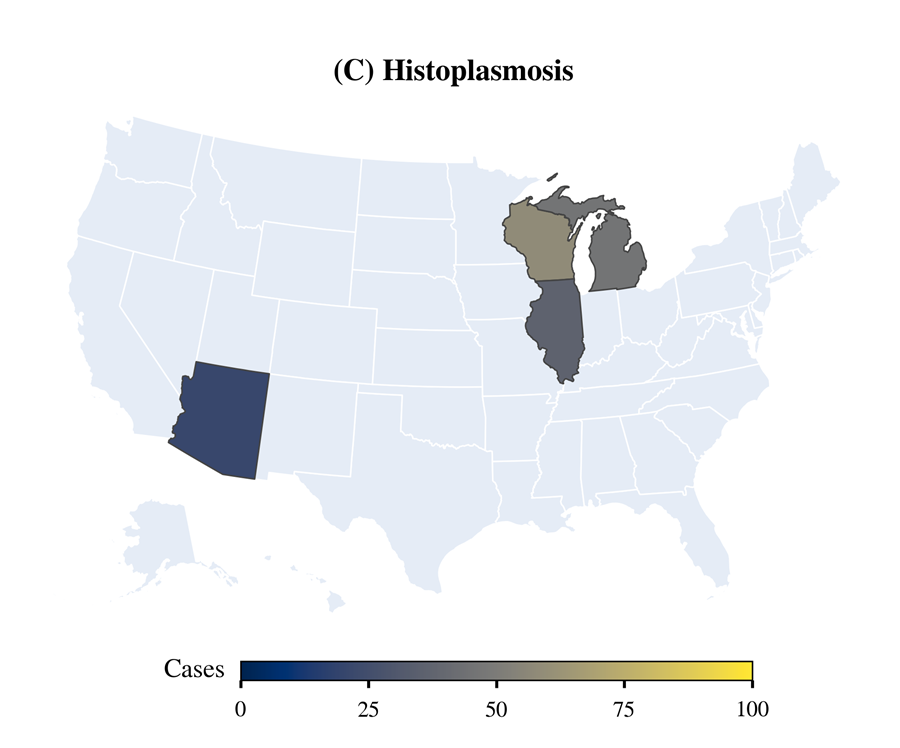
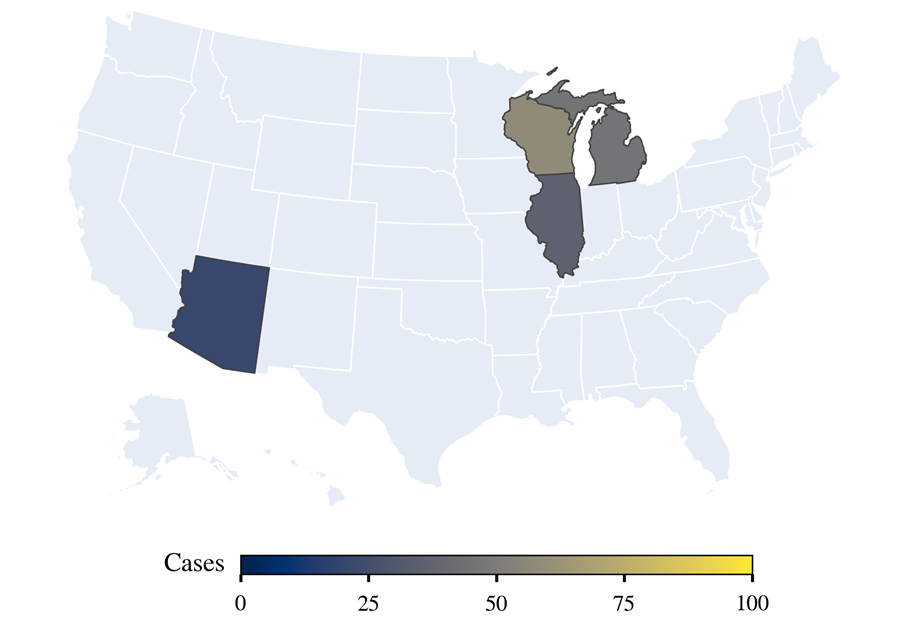
Updating Profile

Changed region(s): [[0.0622, 0.0, 0.9333, 0.81], [0.1556, 0.8411, 0.8711, 0.9657], [0.3422, 0.7477, 0.4044, 0.81]]

diff --git a/projects.html b/projects.html
@@ -144,7 +144,7 @@
             </ol>
             <div class="viz-bundle__defs">
               <div class="viz-bundle__card is-active">
-                <p class="viz-bundle__def">A - Assessment, Prevention, and Management of Pain.</p>
+                <p class="viz-bundle__def">A: Assessment, Prevention, and Management of Pain</p>
                 <ul class="viz-bundle__map">
                   <li class="viz-bundle__head"><span>Clinical Concept</span><span>Standardized Vocabulary: Code</span><span>CDM Table</span></li>
                   <li><span>CPOT: Total Score</span><span>OMOP Extension: OMOP5214819</span><span>Measurement</span></li>
@@ -152,7 +152,7 @@
                 </ul>
               </div>
               <div class="viz-bundle__card">
-                <p class="viz-bundle__def">B: SAT - Spontaneous Awakening Trials.<br>B: SBT - Spontaneous Breathing Trials.</p>
+                <p class="viz-bundle__def">B: SAT: Spontaneous Awakening Trials &amp; SBT: Spontaneous Breathing Trials</p>
                 <ul class="viz-bundle__map">
                   <li class="viz-bundle__head"><span>Clinical Concept</span><span>Standardized Vocabulary: Code</span><span>CDM Table</span></li>
                   <li><span>Sedative</span><span>SNOMED: 372614000</span><span>Drug</span></li>
@@ -160,7 +160,7 @@
                 </ul>
               </div>
               <div class="viz-bundle__card">
-                <p class="viz-bundle__def">C - Choice of Analgesia and Sedation levels</p>
+                <p class="viz-bundle__def">C: Choice of Analgesia and Sedation levels</p>
                 <ul class="viz-bundle__map">
                   <li class="viz-bundle__head"><span>Clinical Concept</span><span>Standardized Vocabulary: Code</span><span>CDM Table</span></li>
                   <li><span>RASS Score</span><span>SNOMED: 457441000124102</span><span>Measurement</span></li>
@@ -168,7 +168,7 @@
                 </ul>
               </div>
               <div class="viz-bundle__card">
-                <p class="viz-bundle__def">D - Delirium: Assess, Prevent, and Manage</p>
+                <p class="viz-bundle__def">D: Delirium: Assess, Prevent, and Manage</p>
                 <ul class="viz-bundle__map">
                   <li class="viz-bundle__head"><span>Clinical Concept</span><span>Standardized Vocabulary: Code</span><span>CDM Table</span></li>
                   <li><span>CAM-ICU Inattention</span><span>LOINC: 106402-1</span><span>Observation</span></li>
@@ -176,7 +176,7 @@
                 </ul>
               </div>
               <div class="viz-bundle__card">
-                <p class="viz-bundle__def">E - Early Mobility and Exercise</p>
+                <p class="viz-bundle__def">E: Early Mobility and Exercise</p>
                 <ul class="viz-bundle__map">
                   <li class="viz-bundle__head"><span>Clinical Concept</span><span>Standardized Vocabulary: Code</span><span>CDM Table</span></li>
                   <li><span>Range of Motion (ROM) Status</span><span>SNOMED: 228528009</span><span>Procedure</span></li>
@@ -184,7 +184,7 @@
                 </ul>
               </div>
               <div class="viz-bundle__card">
-                <p class="viz-bundle__def">F - Family Engagement and Empowerment</p>
+                <p class="viz-bundle__def">F: Family Engagement and Empowerment</p>
                 <ul class="viz-bundle__map">
                   <li class="viz-bundle__head"><span>Clinical Concept</span><span>Standardized Vocabulary: Code</span><span>CDM Table</span></li>
                   <li><span>Family Communication</span><span>SNOMED: 14641000202103</span><span>Observation</span></li>
@@ -202,13 +202,18 @@
           <hr>
           <p>Fungal infections, such as coccidioidomycosis, aspergillosis, and histoplasmosis, represent a growing public health concern in the United States. We constructed three cohorts, coccidioidomycosis (n = 1,171), aspergillosis (n = 687), and histoplasmosis (n = 347), among 393,601 participants with electronic health record data.</p>
           <div class="card-embed viz-maps" aria-label="Maps of coccidioidomycosis, aspergillosis, histoplasmosis and All of Us participants">
-            <img class="is-active" src="/images/fungal-map-a.png" alt="(A) Coccidioidomycosis" loading="lazy">
-            <img src="/images/fungal-map-b.png" alt="(B) Aspergillosis" loading="lazy">
-            <img src="/images/fungal-map-c.png" alt="(C) Histoplasmosis" loading="lazy">
-            <img src="/images/fungal-map-d.png" alt="(D) All of Us participants" loading="lazy">
-            <ol class="viz-maps__dots">
-              <li class="is-active">A</li><li>B</li><li>C</li><li>D</li>
+            <ol class="viz-maps__names">
+              <li class="is-active">Coccidioidomycosis</li>
+              <li>Aspergillosis</li>
+              <li>Histoplasmosis</li>
+              <li><em>All of Us</em> participants</li>
             </ol>
+            <div class="viz-maps__frame">
+              <img class="is-active" src="/images/fungal-map-a.png" alt="Coccidioidomycosis" loading="lazy">
+              <img src="/images/fungal-map-b.png" alt="Aspergillosis" loading="lazy">
+              <img src="/images/fungal-map-c.png" alt="Histoplasmosis" loading="lazy">
+              <img src="/images/fungal-map-d.png" alt="All of Us participants" loading="lazy">
+            </div>
           </div>
           <p class="card-links"><a href="https://arxiv.org/abs/2512.21952" target="_blank" rel="noopener">arXiv</a></p>
           <p class="card-meta">Mar – Jul 2025 · Python, SQL, <em>All of Us</em> Research Program</p>

diff --git a/style.css b/style.css
@@ -708,7 +708,7 @@ svg { display: block; }
   transition: opacity .5s, transform .5s;
 }
 .md-typeset .viz-bundle__card.is-active { opacity: 1; transform: none; }
-.md-typeset .viz-bundle__def { margin: 0 0 .6rem; font-size: .85rem; font-weight: 700; text-align: center; }
+.md-typeset .viz-bundle__def { margin: 0 0 .6rem; padding: 0 .4rem; font-size: .8rem; font-weight: 700; }
 .md-typeset .viz-bundle__map li {
   display: grid;
   grid-template-columns: 2fr 2fr 1fr;
@@ -721,44 +721,41 @@ svg { display: block; }
 .md-typeset .viz-bundle__map li span:nth-child(2) { color: var(--md-primary-fg-color); }
 .md-typeset .viz-bundle__map li.viz-bundle__head span { color: inherit; }
 
-.md-typeset .viz-maps { position: relative; overflow: hidden; }
-.md-typeset .viz-maps img {
+.md-typeset .viz-maps { display: flex; overflow: hidden; color: #000000; }
+.md-typeset .viz-maps__names {
+  display: flex;
+  flex-direction: column;
+  justify-content: center;
+  gap: .5rem;
+  flex: 0 0 10rem;
+  margin: 0;
+  padding: 0 0 0 1rem;
+  list-style: none;
+}
+.md-typeset .viz-maps__names li {
+  margin: 0;
+  padding: .3rem .5rem;
+  border-left: .15rem solid transparent;
+  font-size: .8rem;
+  cursor: pointer;
+  transition: border-color .4s, color .4s;
+}
+.md-typeset .viz-maps__names li.is-active {
+  border-left-color: var(--md-primary-fg-color);
+  color: var(--md-primary-fg-color);
+  font-weight: 700;
+}
+.md-typeset .viz-maps__frame { position: relative; flex: 1; }
+.md-typeset .viz-maps__frame img {
   position: absolute;
-  inset: 0 0 1.6rem;
-  width: 100%;
-  height: calc(100% - 1.6rem);
+  inset: .4rem;
+  width: calc(100% - .8rem);
+  height: calc(100% - .8rem);
   object-fit: contain;
   opacity: 0;
   transition: opacity .8s;
 }
-.md-typeset .viz-maps img.is-active { opacity: 1; }
-.md-typeset .viz-maps__dots {
-  position: absolute;
-  left: 0;
-  right: 0;
-  bottom: .4rem;
-  display: flex;
-  justify-content: center;
-  gap: .4rem;
-  margin: 0;
-  padding: 0;
-  list-style: none;
-}
-.md-typeset .viz-maps__dots li {
-  margin: 0;
-  width: 1.1rem;
-  height: 1.1rem;
-  line-height: 1.1rem;
-  border: .05rem solid var(--md-primary-fg-color);
-  border-radius: 50%;
-  color: var(--md-primary-fg-color);
-  font-size: .55rem;
-  font-weight: 700;
-  text-align: center;
-  cursor: pointer;
-  transition: background-color .4s, color .4s;
-}
-.md-typeset .viz-maps__dots li.is-active { background-color: var(--md-primary-fg-color); color: #ffffff; }
+.md-typeset .viz-maps__frame img.is-active { opacity: 1; }
 
 .md-typeset .viz-models__steps { display: flex; align-items: stretch; gap: 1.6rem; }
 .md-typeset .viz-models__steps li {
@@ -793,12 +790,15 @@ svg { display: block; }
 
 @media screen and (max-width: 44.984375em) {
   .md-typeset .viz { height: auto; min-height: 18rem; }
-  .md-typeset .viz-maps { height: 14rem; }
+  .md-typeset .viz-maps { flex-direction: column; height: 18rem; }
+  .md-typeset .viz-maps__names { flex: 0 0 auto; flex-direction: row; flex-wrap: wrap; gap: .2rem; padding: .4rem .4rem 0; }
+  .md-typeset .viz-maps__names li { padding: .2rem .4rem; border-left: 0; border-bottom: .15rem solid transparent; font-size: .65rem; }
+  .md-typeset .viz-maps__names li.is-active { border-bottom-color: var(--md-primary-fg-color); }
   .md-typeset .viz-bundle__defs { min-height: 11rem; }
   .md-typeset .viz-bundle__map li { font-size: .6rem; gap: .4rem; }
   .md-typeset .viz-models__steps { flex-direction: column; gap: .8rem; }
   .md-typeset .viz-models__steps li + li::before { content: "↓"; left: 50%; top: -.9rem; transform: translateX(-50%); }
-  .md-typeset .viz-bundle__def { font-size: .75rem; }
+  .md-typeset .viz-bundle__def { font-size: .7rem; }
 }
 
 @media (prefers-reduced-motion: reduce) {

diff --git a/script.js b/script.js
@@ -55,7 +55,7 @@ document.addEventListener('DOMContentLoaded', () => {
     if (!reduceMotion) setInterval(() => { i = (i + 1) % nav.length; show(i); }, delay);
   };
   document.querySelectorAll('.viz-bundle').forEach(viz => cycle(viz, '.viz-bundle__steps li', '.viz-bundle__card', 4000));
-  document.querySelectorAll('.viz-maps').forEach(viz => cycle(viz, '.viz-maps__dots li', 'img', 3500));
+  document.querySelectorAll('.viz-maps').forEach(viz => cycle(viz, '.viz-maps__names li', 'img', 3500));
 
   const animated = document.querySelectorAll('.viz-models');
   if (animated.length && 'IntersectionObserver' in window && !reduceMotion) {
